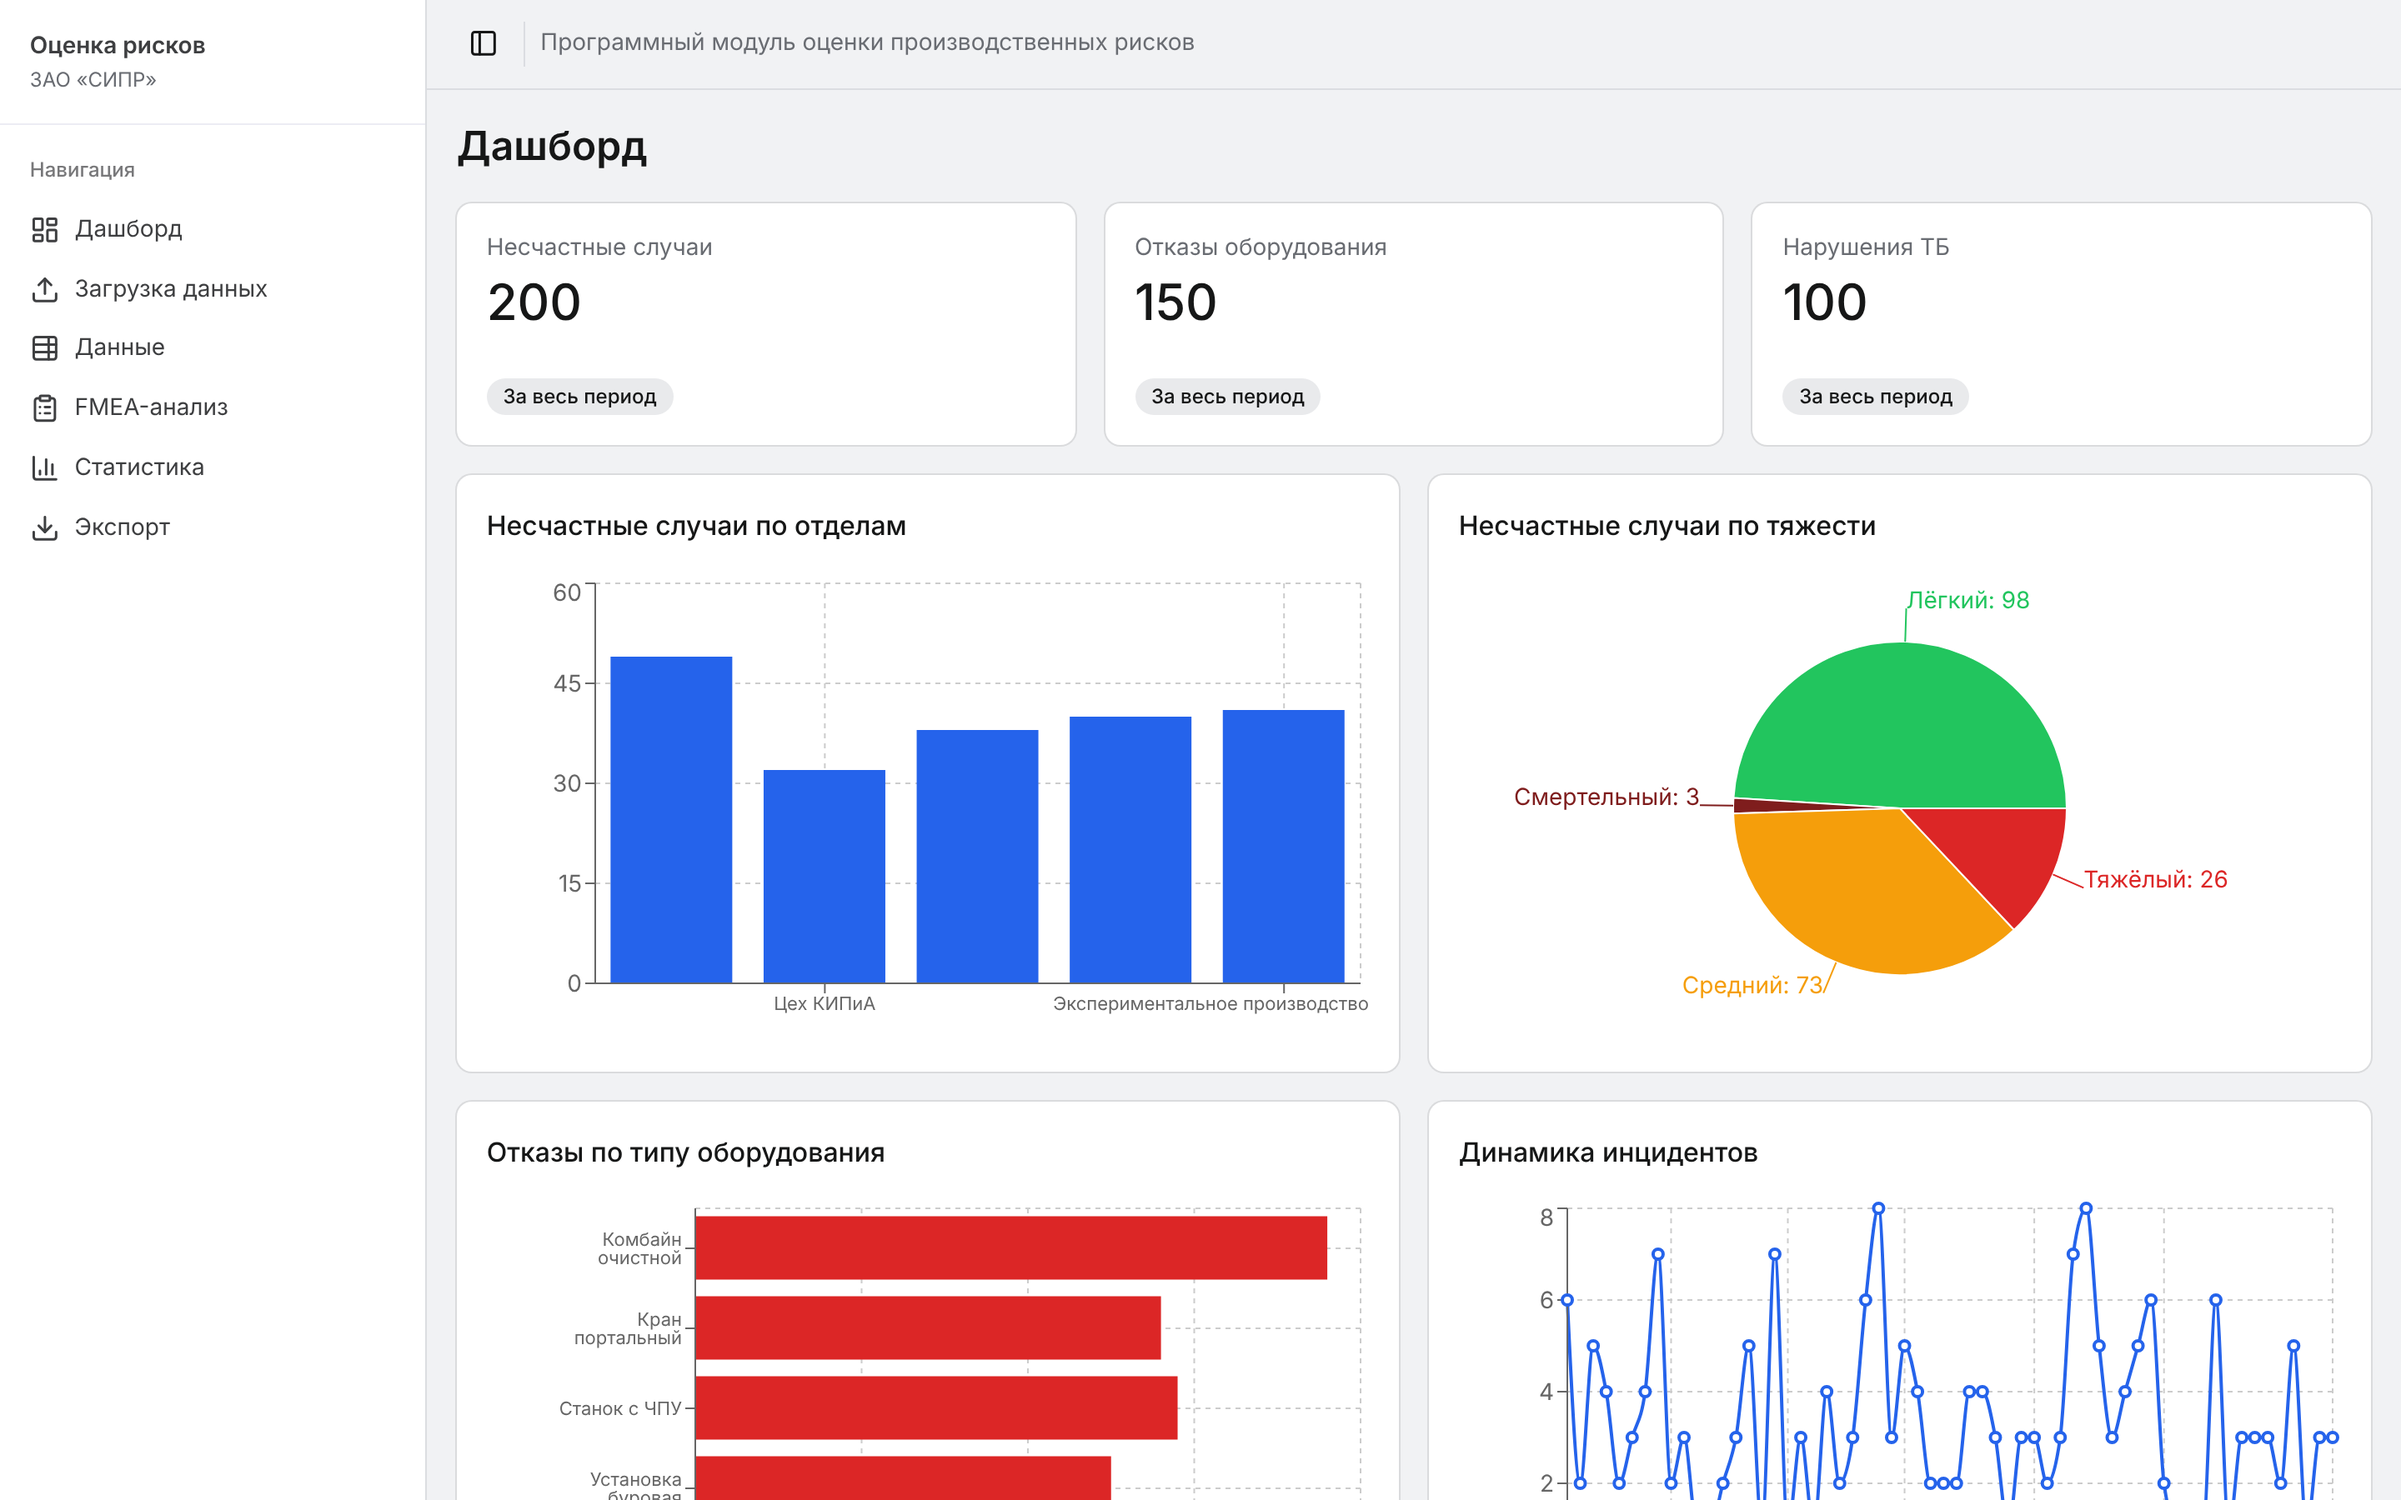
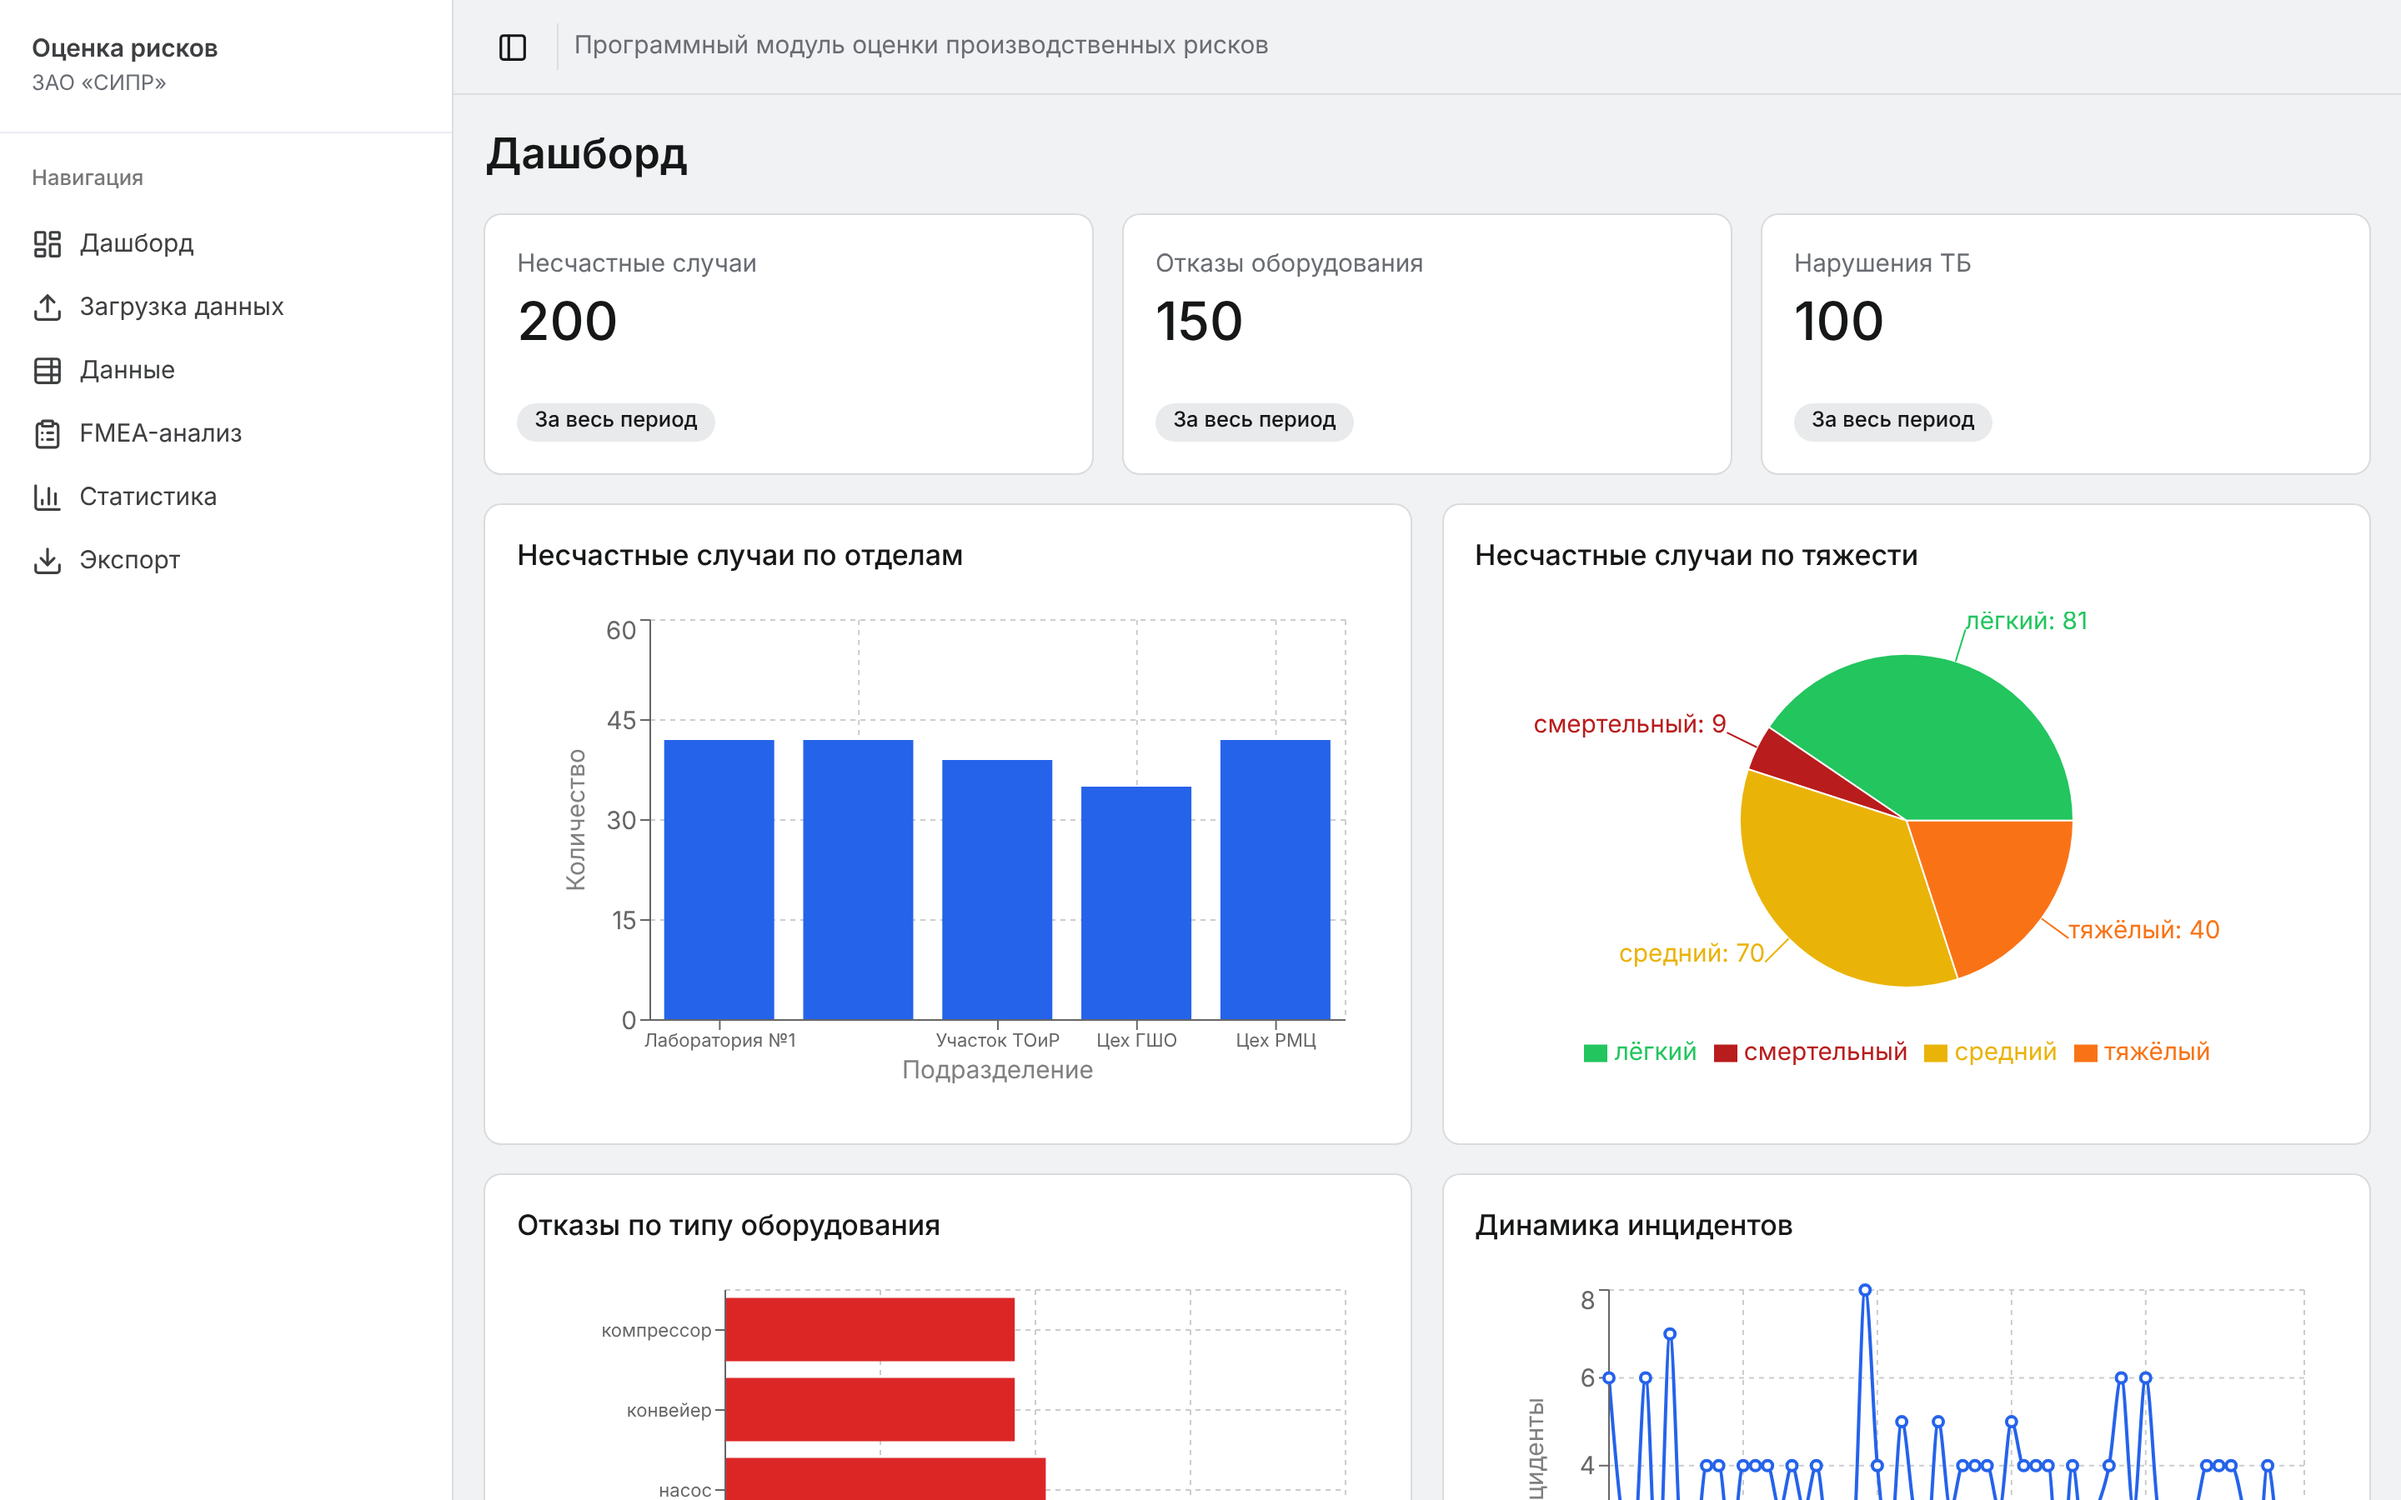
Скриншоты обновлены, цвета severity на дашборде исправлены, нумерация приложений починена

diff --git a/frontend/src/pages/dashboard.tsx b/frontend/src/pages/dashboard.tsx
@@ -27,10 +27,10 @@ import {
 } from "recharts"
 
 const RISK_COLORS: Record<string, string> = {
-  "Смертельный": "#7f1d1d",
-  "Тяжёлый": "#dc2626",
-  "Средний": "#f59e0b",
-  "Лёгкий": "#22c55e",
+  "смертельный": "#b91c1c",
+  "тяжёлый": "#f97316",
+  "средний": "#eab308",
+  "лёгкий": "#22c55e",
 }
 
 const CHART_COLORS = ["#2563eb", "#dc2626", "#16a34a", "#ea580c", "#7c3aed"]
